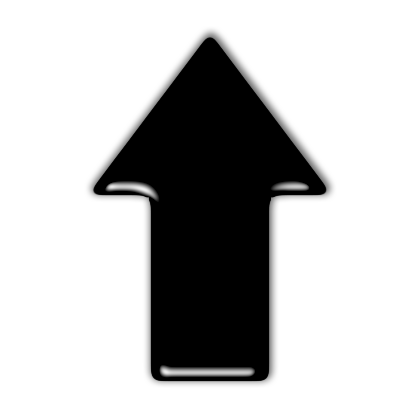
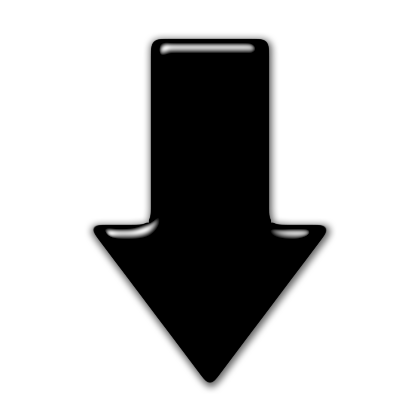
lines have weight in routing now

Changed region(s): [[0.1857, 0.0619, 0.8048, 0.9286]]

diff --git a/js/flow.js b/js/flow.js
@@ -38,7 +38,15 @@ function drawInflow(station_id) {
               return inDestIcon;
             }
           }
-          }), fitSelectedRoutes: false
+          }), 
+          lineOptions: {
+            styles: [
+            {color: 'black', opacity: 0, weight: 0},
+            {color: 'blue', opacity: 0, weight: 0},
+            {color: '#EE513F', opacity: 1, weight: data[i].count/20}
+            ]
+           },
+           fitSelectedRoutes: false
          });
         window.inflowTrips.addLayer(trip);
       }
@@ -71,8 +79,17 @@ function drawOutflow(station_id) {
             } else {
               return outDestIcon;
             }
+           
           }
-          }), fitSelectedRoutes: false
+          }),           
+          lineOptions: {
+            styles: [
+            {color: 'black', opacity: 0, weight: 0},
+            {color: 'blue', opacity: 0, weight: 0},
+            {color: '#EE513F', opacity: 1, weight: data[i].count/20}
+            ]
+           },
+           fitSelectedRoutes: false
          });
         window.outflowTrips.addLayer(trip);
       }

diff --git a/js/icons.js b/js/icons.js
@@ -95,7 +95,7 @@ var inDestIcon = L.icon({
 });
 
 var inSrcIcon = L.icon({
-  iconUrl: 'images/divvy-up.png',
+  iconUrl: 'images/divvy-down.png',
   shadowUrl: 'images/marker-shadow.png',
     iconSize:     [35,35], // size of the icon
     shadowSize:   sS, // size of the shadow
@@ -116,7 +116,7 @@ var outSrcIcon = L.icon({
 });
 
 var outDestIcon = L.icon({
-  iconUrl: 'images/divvy-down.png',
+  iconUrl: 'images/divvy-up.png',
   shadowUrl: 'images/marker-shadow.png',
     iconSize:     [35,35], // size of the icon
     shadowSize:   sS, // size of the shadow

diff --git a/index.html b/index.html
@@ -375,7 +375,7 @@ d3.csv("distribution-by-bike.csv", function(error, data) {
               field: document.getElementById('datepicker'),
               format: 'ddd MMM DD YYYY',
               trigger: document.getElementById('datepicker'),
-              minDate: new Date('2013-06-27'),
+              minDate: new Date('2013-06-28'),
               maxDate: new Date('2013-12-31'),
               yearRange: [2013, 2013],
               onSelect: function () {
